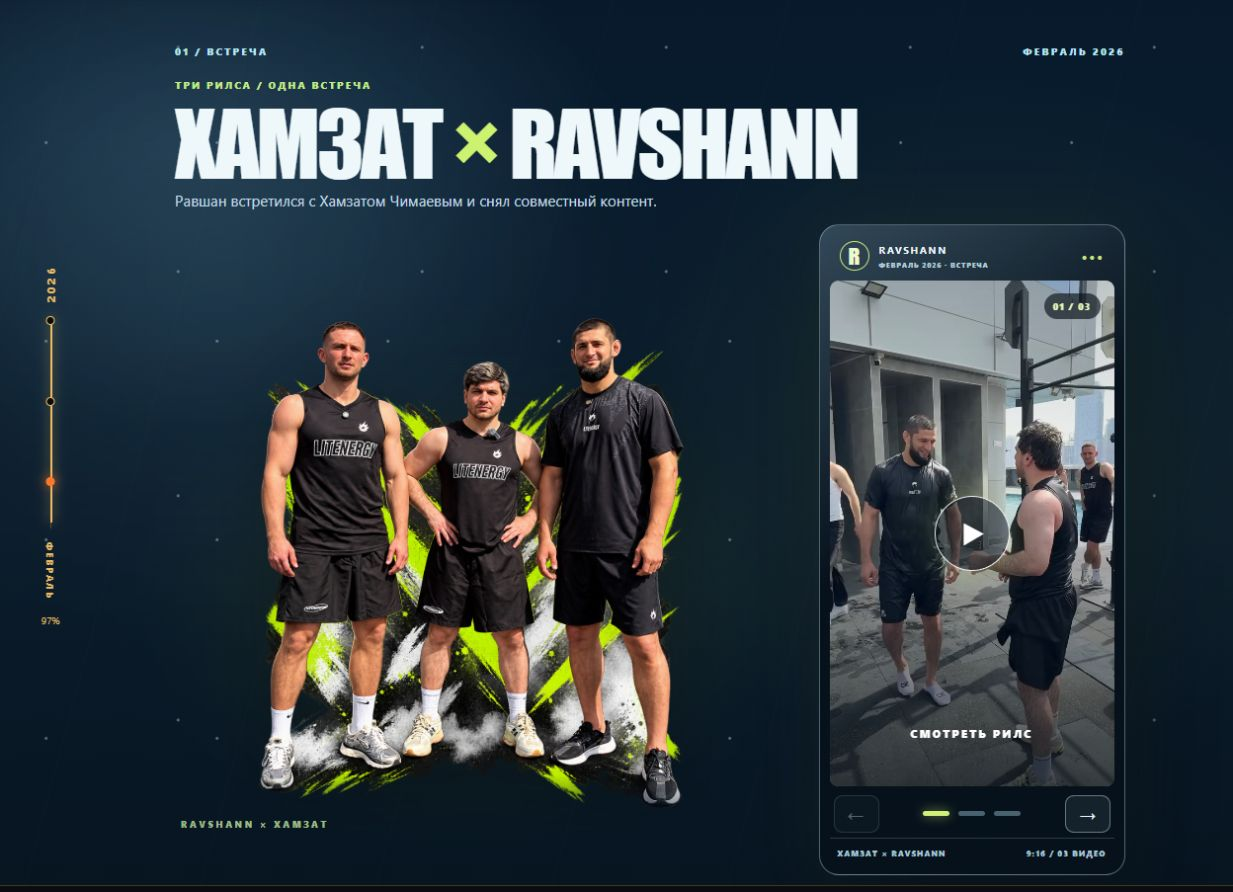
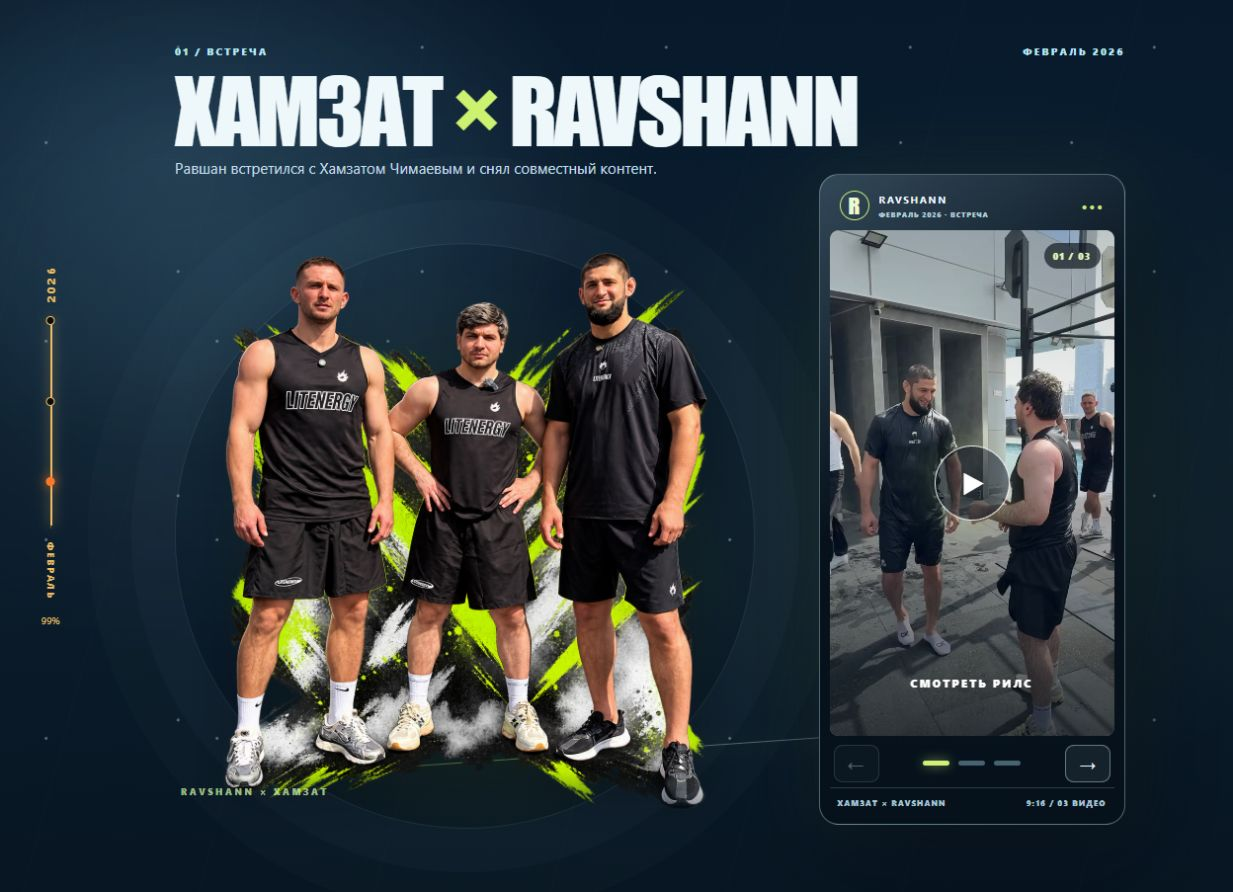
Refine February meeting composition

diff --git a/src/chapters/february/chapter.module.css b/src/chapters/february/chapter.module.css
@@ -1,4 +1,4 @@
-.chapter { position: relative; isolation: isolate; overflow: clip; background: #061321; color: #eef8fb; }
+.chapter { position: relative; isolation: isolate; overflow: clip; padding-bottom: 60px; background: #061321; color: #eef8fb; }
 .chapter::before { content: ''; position: absolute; z-index: -1; inset: 0; pointer-events: none; background: radial-gradient(ellipse 40% 28% at 14% 39%,rgba(124,174,203,.17),transparent 85%),radial-gradient(ellipse 37% 34% at 79% 62%,rgba(169,223,83,.07),transparent 85%),linear-gradient(180deg,#061321 0%,#081b2d 34%,#0b1c2b 70%,#071521 100%); }
 .chapter::after { content: ''; position: absolute; z-index: -1; inset: 0; pointer-events: none; opacity: .42; background: radial-gradient(circle at 27% 40%,#bbd6e5 0 1px,transparent 2px),radial-gradient(circle at 73% 70%,#b2d6e7 0 1px,transparent 2px),repeating-linear-gradient(105deg,transparent 0 170px,rgba(181,225,244,.025) 171px 172px); background-size: 173px 201px,247px 227px,100% 100%; }
 .light { position: absolute; left: -20%; top: 18%; width: 75%; height: 62%; border-radius: 50%; background: radial-gradient(ellipse,rgba(132,199,227,.12),transparent 66%); filter: blur(40px); pointer-events: none; }
@@ -8,19 +8,19 @@
 .chapterHeader h2 { margin: 23px 0 18px; font: 400 clamp(92px,12.5vw,210px)/.8 var(--font-display); letter-spacing: -.045em; text-shadow: 0 10px 50px rgba(119,190,226,.19); }
 .chapterHeader h2 span { color: #b7dced; font-size: .48em; vertical-align: top; letter-spacing: -.035em; }
 .chapterHeader p { max-width: 560px; margin: 0; color: #b7d4e3; font-size: 16px; line-height: 1.55; }
-.meeting { position: relative; padding: 20px 10% 10px 14%; scroll-margin-top: 25px; }
+.meeting { position: relative; padding: 20px 10% 20px 14%; scroll-margin-top: 25px; }
 .sceneTop { display: flex; justify-content: space-between; gap: 18px; color: #b8e7f4; font-size: 10px; font-weight: 900; letter-spacing: .22em; }
 .meetingIntro { margin-top: 14px; }
-.meetingIntro h3 { margin: 12px 0 6px; font: 400 clamp(56px,7vw,104px)/.9 var(--font-display); letter-spacing: -.035em; white-space: nowrap; }
+.meetingIntro h3 { margin: 0 0 6px; font: 400 clamp(56px,7vw,104px)/.9 var(--font-display); letter-spacing: -.035em; white-space: nowrap; }
 .meetingIntro h3 em { color: #ccf26f; font-style: normal; }
 .meetingIntro p { margin: 0; color: #c1dbe8; font-size: 15px; line-height: 1.5; }
-.meetingLayout { display: grid; grid-template-columns: minmax(0,1fr) minmax(280px,310px); align-items: stretch; justify-content: space-between; gap: clamp(28px,4vw,70px); margin-top: 12px; }
-.meetingArt { position: relative; align-self: stretch; min-width: 0; min-height: 0; }
-.meetingArt::before { content: ''; position: absolute; inset: 18% -8% 5%; background: radial-gradient(ellipse at 50% 50%,rgba(182,241,48,.13),transparent 65%); filter: blur(40px); pointer-events: none; }
-.meetingArt img { position: absolute; left: 5%; top: 0; display: block; width: 90%; height: 95%; object-fit: contain; object-position: center center; filter: drop-shadow(0 25px 40px rgba(0,0,0,.25)); -webkit-mask-image: linear-gradient(90deg,transparent 0%,#000 8%,#000 92%,transparent 100%),linear-gradient(180deg,#000 0%,#000 89%,transparent 100%); mask-image: linear-gradient(90deg,transparent 0%,#000 8%,#000 92%,transparent 100%),linear-gradient(180deg,#000 0%,#000 89%,transparent 100%); -webkit-mask-composite: source-in; mask-composite: intersect; }
+.meetingLayout { position: relative; display: grid; grid-template-columns: minmax(0,680px) minmax(280px,310px); align-items: stretch; justify-content: center; gap: clamp(36px,5vw,84px); margin-top: 12px; }
+.meetingLayout::before { content: ''; position: absolute; z-index: -1; left: 5%; right: 7%; bottom: 14%; height: 1px; background: linear-gradient(90deg,transparent,rgba(201,241,128,.48) 30%,rgba(186,223,240,.35) 72%,transparent); box-shadow: 0 0 24px rgba(183,231,130,.3); transform: rotate(-4deg); pointer-events: none; }
+.meetingArt { position: relative; align-self: stretch; min-width: 0; min-height: 0; isolation: isolate; }
+.meetingArt::before { content: ''; position: absolute; z-index: -1; inset: 8% 0 2%; border: 1px solid rgba(196,238,243,.1); border-radius: 50%; background: radial-gradient(ellipse at 50% 58%,rgba(182,241,48,.12),transparent 65%); box-shadow: 0 0 0 44px rgba(177,228,241,.025),0 0 0 88px rgba(177,228,241,.015); transform: rotate(-12deg); pointer-events: none; }
+.meetingArt img { position: absolute; left: 0; top: -7%; display: block; width: 100%; height: 108%; object-fit: contain; object-position: center bottom; filter: drop-shadow(0 25px 40px rgba(0,0,0,.25)); -webkit-mask-image: linear-gradient(90deg,transparent 0%,#000 8%,#000 92%,transparent 100%),linear-gradient(180deg,#000 0%,#000 89%,transparent 100%); mask-image: linear-gradient(90deg,transparent 0%,#000 8%,#000 92%,transparent 100%),linear-gradient(180deg,#000 0%,#000 89%,transparent 100%); -webkit-mask-composite: source-in; mask-composite: intersect; }
 .artCaption { position: absolute; bottom: 7%; left: 1%; color: rgba(215,248,175,.73); font-size: 9px; font-weight: 900; letter-spacing: .3em; }
-.tag { color: #c2ec87; font-size: 10px; font-weight: 900; letter-spacing: .2em; }
-.reels { width: min(100%,310px); padding: 10px; border: 1px solid rgba(200,232,246,.38); border-radius: 20px; background: linear-gradient(145deg,rgba(52,74,91,.95),rgba(6,17,27,.96) 42%); box-shadow: 20px 35px 90px rgba(0,5,13,.48),0 0 58px rgba(169,222,96,.08); }
+.reels { width: min(100%,310px); padding: 10px; border: 1px solid rgba(200,232,246,.38); border-radius: 20px; background: linear-gradient(145deg,rgba(52,74,91,.95),rgba(6,17,27,.96) 42%); box-shadow: 20px 35px 90px rgba(0,5,13,.48),0 0 58px rgba(169,222,96,.08); transform: translateY(-18px); }
 .reelsHeader { display: flex; align-items: center; gap: 10px; min-height: 46px; padding: 4px 10px 7px; }
 .reelsAvatar { display: grid; place-items: center; width: 30px; height: 30px; flex: 0 0 auto; border: 1px solid #c6ec77; border-radius: 50%; color: #eafbd2; font: 22px var(--font-display); }
 .reelsHeader strong,.reelsHeader small { display: block; }
@@ -44,4 +44,4 @@
 .reelDots button.activeDot { background: #d0f079; box-shadow: 0 0 11px rgba(208,240,121,.58); }
 .reelFooter { display: flex; justify-content: space-between; gap: 12px; padding: 9px 8px 6px; border-top: 1px solid rgba(183,220,236,.2); color: #a8c7d6; font-size: 8px; font-weight: 900; letter-spacing: .13em; }
 @media (max-width: 1050px) { .chapterHeader { padding-left: 11%; } .meeting { padding-left: 11%; } .meetingIntro h3 { font-size: clamp(50px,7vw,78px); } .meetingLayout { grid-template-columns: minmax(0,1fr) minmax(280px,310px); gap: 24px; } }
-@media (max-width: 760px) { .chapterHeader { padding: 80px 7% 35px; } .chapterHeader h2 { font-size: clamp(72px,17vw,120px); } .chapterHeader p { font-size: 13px; } .meeting { padding: 20px 7% 100px; } .sceneTop { font-size: 8px; } .meetingIntro h3 { font-size: clamp(48px,10vw,72px); white-space: normal; } .meetingIntro p { font-size: 13px; } .meetingLayout { display: flex; flex-direction: column; gap: 12px; } .meetingArt { align-self: center; width: min(100%,430px); min-height: 0; aspect-ratio: 1041/1480; } .meetingArt img { left: 0; top: 0; width: 100%; height: 100%; } .reels { margin: 0 auto; } .artCaption { left: 3%; bottom: 3%; } }
+@media (max-width: 760px) { .chapterHeader { padding: 80px 7% 35px; } .chapterHeader h2 { font-size: clamp(72px,17vw,120px); } .chapterHeader p { font-size: 13px; } .meeting { padding: 20px 7% 100px; } .sceneTop { font-size: 8px; } .meetingIntro h3 { font-size: clamp(48px,10vw,72px); white-space: normal; } .meetingIntro p { font-size: 13px; } .meetingLayout { display: flex; flex-direction: column; gap: 12px; } .meetingLayout::before { display: none; } .meetingArt { align-self: center; width: min(100%,430px); min-height: 0; aspect-ratio: 1041/1480; } .meetingArt img { left: 0; top: 0; width: 100%; height: 100%; } .reels { margin: 0 auto; transform: none; } .artCaption { left: 3%; bottom: 3%; } }

diff --git a/src/chapters/february/February.tsx b/src/chapters/february/February.tsx
@@ -15,7 +15,6 @@ export function February() {
     <article id={meeting.id} className={styles.meeting} aria-labelledby={`${meeting.id}-title`}>
       <div className={styles.sceneTop}><span>01 / ВСТРЕЧА</span><span>ФЕВРАЛЬ 2026</span></div>
       <div className={styles.meetingIntro}>
-        <span className={styles.tag}>ТРИ РИЛСА / ОДНА ВСТРЕЧА</span>
         <h3 id={`${meeting.id}-title`}>ХАМЗАТ <em>×</em> RAVSHANN</h3>
         <p>{meeting.description}</p>
       </div>
